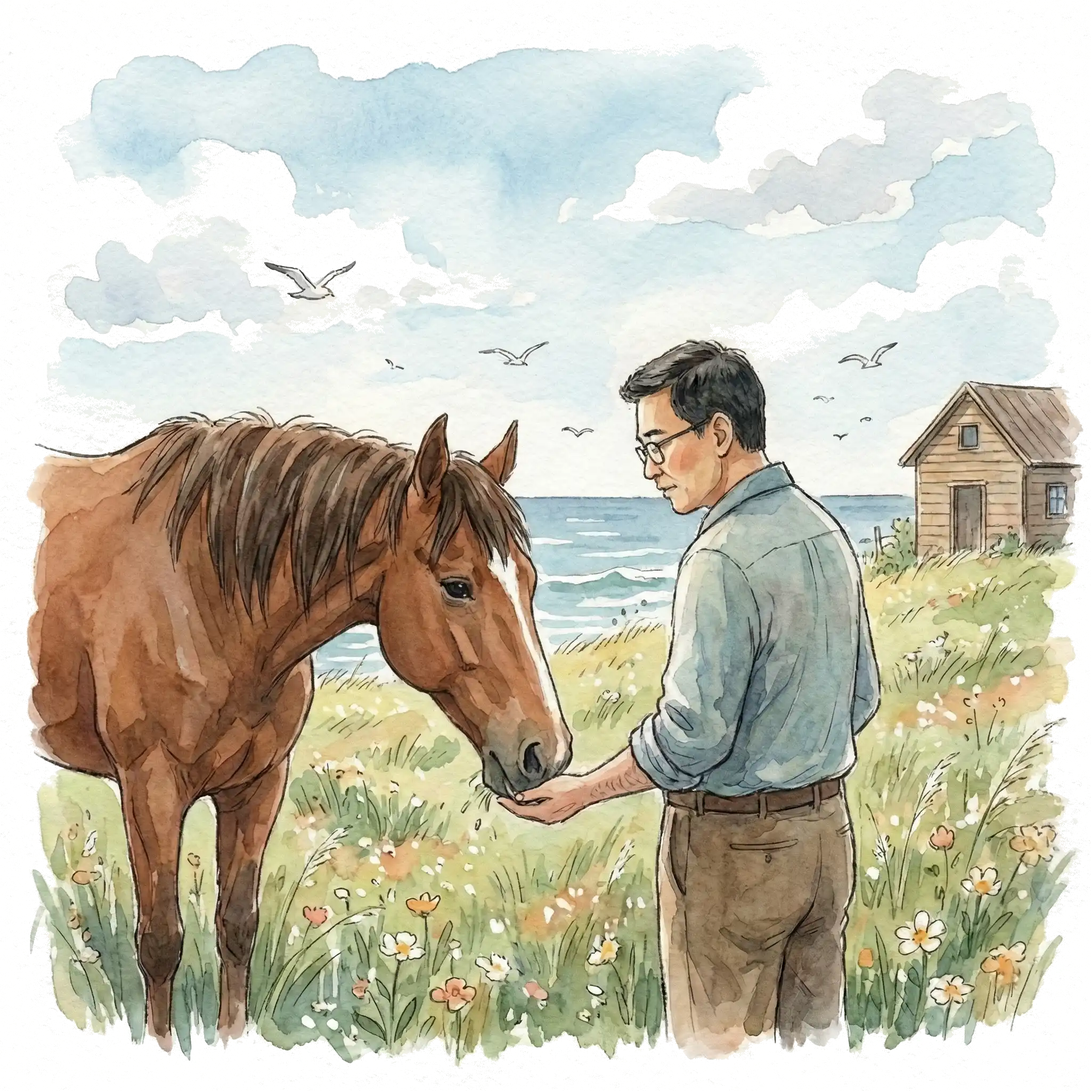
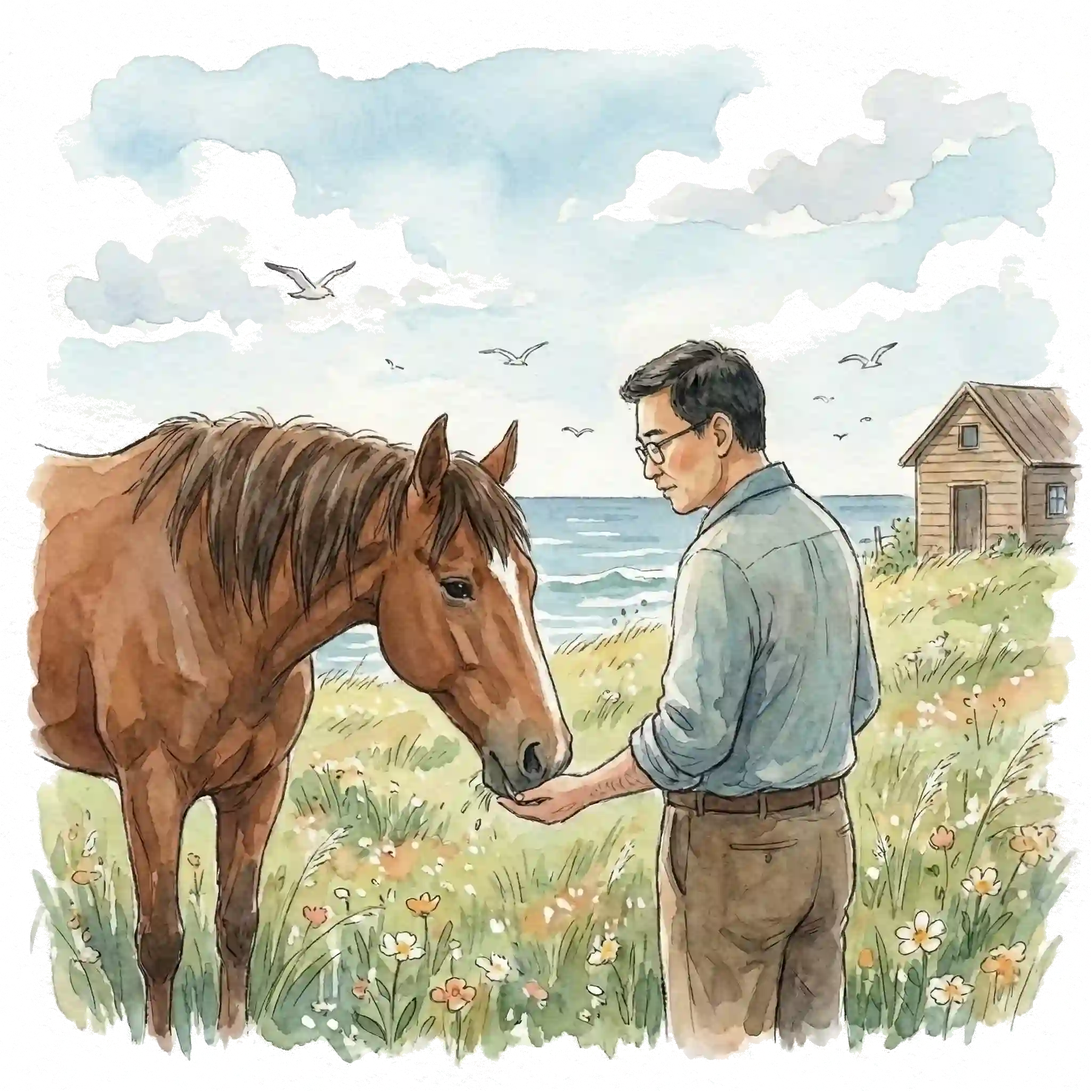
optimize image size

diff --git a/src/pages/HomePage.jsx b/src/pages/HomePage.jsx
@@ -10,6 +10,15 @@ import ChuShiBiaoContent from '../components/chu-shi-biao/index.jsx'
 import FacingTheSeaContent from '../components/facing-the-sea/Content.jsx'
 import ShupathDifficultContent from '../components/shupath-difficult/Content.jsx'
 
+// 导入 Hero 图片用于预加载
+import facingTheSeaHero from '../components/facing-the-sea/facing-the-sea.webp'
+import peachBlossomHero from '../components/peach-blossom-spring/peach-blossom-spring.webp'
+import chuShiBiaoHero from '../components/chu-shi-biao/chu-shi-biao.webp'
+import shupathDifficultHero from '../components/shupath-difficult/shupath-difficult.webp'
+import backViewHero from '../components/back-view/back-view.webp'
+import guxiangHero from '../components/guxiang/runtu.webp'
+import farewellHero from '../components/farewell-to-cambridge/farewell-to-cambridge.webp'
+
 // ============ 常量定义 ============
 
 const APP_STATES = {
@@ -50,6 +59,7 @@ const CONTENTS = [
     id: 'facing-the-sea',
     title: '面朝大海，春暖花开',
     coverImage: '/facing-the-sea.webp',
+    heroImage: facingTheSeaHero,
     Component: FacingTheSeaContent,
     maskConfig: {
       top: 5,
@@ -64,6 +74,7 @@ const CONTENTS = [
     id: 'peach-blossom-spring',
     title: '桃花源记',
     coverImage: '/peach-blossom-spring.webp',
+    heroImage: peachBlossomHero,
     Component: PeachBlossomContent,
     maskConfig: {
       top: 0,
@@ -78,6 +89,7 @@ const CONTENTS = [
     id: 'chu-shi-biao',
     title: '出师表',
     coverImage: '/chu-shi-biao.webp',
+    heroImage: chuShiBiaoHero,
     Component: ChuShiBiaoContent,
     maskConfig: {
       top: 15,
@@ -92,6 +104,7 @@ const CONTENTS = [
     id: 'shupath-difficult',
     title: '蜀道难',
     coverImage: '/shupath-difficult.webp',
+    heroImage: shupathDifficultHero,
     Component: ShupathDifficultContent,
     maskConfig: {
       top: 0,
@@ -106,18 +119,21 @@ const CONTENTS = [
     id: 'article1',
     title: '背影',
     coverImage: '/back-view.webp',
+    heroImage: backViewHero,
     Component: BackViewContent
   },
   {
     id: 'article2',
     title: '故乡',
     coverImage: '/rentu.webp',
+    heroImage: guxiangHero,
     Component: GuxiangContent
   },
   {
     id: 'article3',
     title: '再别康桥',
     coverImage: '/farewell-to-cambridge.webp',
+    heroImage: farewellHero,
     Component: FarewellContent
   }
 ]
@@ -509,6 +525,23 @@ const HomePage = () => {
 
     window.addEventListener('mousemove', handleMouseMove)
     return () => window.removeEventListener('mousemove', handleMouseMove)
+  }, [appState])
+
+  // 预加载所有文章的 Hero 图
+  useEffect(() => {
+    if (appState !== APP_STATES.BOOK) return
+
+    // 预加载所有文章的 Hero 图
+    const preloadHeroImages = async () => {
+      contents.forEach(content => {
+        if (content.heroImage) {
+          const img = new Image()
+          img.src = content.heroImage
+        }
+      })
+    }
+
+    preloadHeroImages()
   }, [appState])
 
   // 键盘导航

diff --git a/src/components/facing-the-sea/Content.jsx b/src/components/facing-the-sea/Content.jsx
@@ -1,5 +1,8 @@
 import { motion } from 'framer-motion'
 import Hero from './Hero.jsx'
+import hourseImg from './hourse.webp'
+import seeSeaImg from './see-sea.webp'
+import endImg from './end.webp'
 
 export default function Content({ onBack }) {
     return (
@@ -39,7 +42,7 @@ export default function Content({ onBack }) {
                         <Line text="从明天起，做一个幸福的人" />
                         <LineWithImage
                             text="喂马，劈柴，周游世界"
-                            imageSrc="/src/components/facing-the-sea/hourse.webp"
+                            imageSrc={hourseImg}
                         />
                         <div className="mt-8">
                             <Line text="从明天起，关心粮食和蔬菜" />
@@ -54,7 +57,7 @@ export default function Content({ onBack }) {
                         <Line text="从明天起，和每一个亲人通信" />
                         <LineWithImage
                             text="告诉他们我的幸福"
-                            imageSrc="/src/components/facing-the-sea/see-sea.webp"
+                            imageSrc={seeSeaImg}
                         />
                         <LightningLine text="那幸福的闪电告诉我的" />
                         <Line text="我将告诉每一个人" />
@@ -104,7 +107,7 @@ export default function Content({ onBack }) {
                             我只愿
                         </p>
                         <motion.img
-                            src="/src/components/facing-the-sea/end.webp"
+                            src={endImg}
                             alt="面朝大海，春暖花开"
                             className="w-96 md:w-[30rem] h-auto object-cover rounded-2xl mt-4"
                             whileHover={{ scale: 1.05 }}

diff --git a/src/components/shupath-difficult/Hero.jsx b/src/components/shupath-difficult/Hero.jsx
@@ -15,6 +15,7 @@ export default function Hero() {
                     src={heroImg}
                     alt="蜀道难"
                     className="w-full h-auto"
+                    style={{ aspectRatio: '3616 / 1184' }}
                 />
             </motion.div>
 
